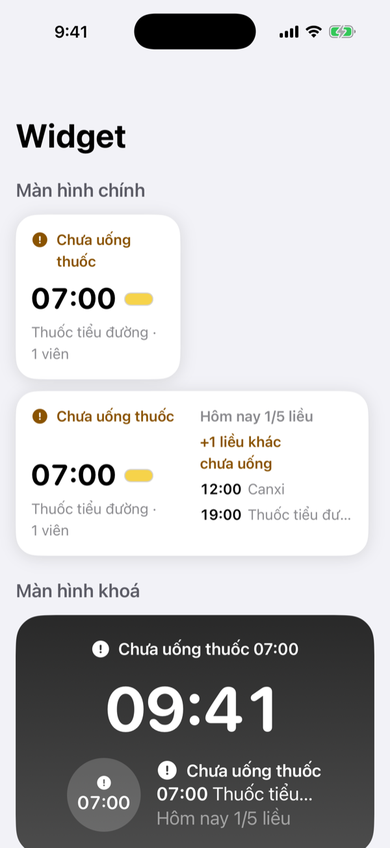
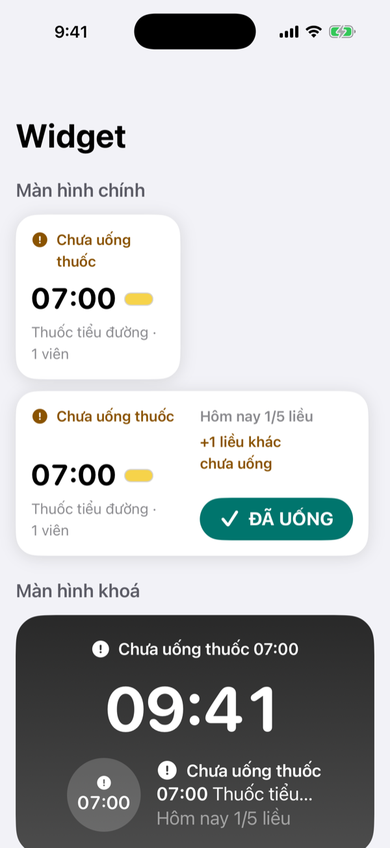
CI: StoreKit tests finish what they leave; file shots wait for the page
- LabStoreTests: purchaseHistory and othersLeftUnfinished leave the
  invoice templates unfinished on purpose; they now finish them at their
  end, as the code that sells them would, so the next test does not wait
  on StoreKit to forget them. On PR 36 one such wait ran past its minute
  once. freshSession's failure now says what StoreKit still reports.
- render-previews.sh: the export screens (PDFKit, Quick Look) are shot
  only once the middle of the screen shows more than plain white: Quick
  Look says nothing when it has drawn, and a title and a caption passed a
  blank Excel page as a still, drawn screen.
- README: the widget's screenshot shows its ĐÃ UỐNG button (rendered on
  62ac116, 390 px).

Claude-Session: https://claude.ai/code/session_017SqZFe7MJiZeRp26ra9wFc

Changed region(s): [[0.4923, 0.5519, 0.9231, 0.6439]]

diff --git a/ios/IdeaLabDemo/IdeaLabDemoTests/LabStoreTests.swift b/ios/IdeaLabDemo/IdeaLabDemoTests/LabStoreTests.swift
@@ -42,8 +42,28 @@ struct LabStoreTests {
             guard await entitlements().isEmpty, await unfinished().isEmpty else { return false }
             return await openSubscriptions().isEmpty
         }
-        try #require(forgotten, "StoreKit still reports the last test's transactions")
+        let left = forgotten ? "" : await leftover()
+        try #require(forgotten, "StoreKit still reports the last test's transactions: \(left)")
         return session
+    }
+
+    /// What StoreKit still reports, for a test that waited in vain.
+    private func leftover() async -> String {
+        let entitled = await entitlements().sorted()
+        let unfinished = await unfinished().sorted()
+        let open = await openSubscriptions().count
+        return "entitlements \(entitled), unfinished \(unfinished), open subscriptions \(open)"
+    }
+
+    /// Finishes what other code of the app sells (`invoice.templates`), as
+    /// that code would: a test leaves it unfinished on purpose, and the next
+    /// one should not wait on StoreKit to forget it.
+    private func finishOthers() async {
+        for await result in StoreKit.Transaction.unfinished {
+            if case let .verified(transaction) = result, !Self.sold.contains(transaction.productID) {
+                await transaction.finish()
+            }
+        }
     }
 
     /// Whether `condition` holds within `timeout`, asked every tenth of a
@@ -210,6 +230,7 @@ struct LabStoreTests {
         try session.refundTransaction(identifier: lifetime.identifier)
         // Read again when the refund comes in.
         #expect(await eventually { store.purchases?.first?.revocationDate != nil }, "\(String(describing: store.purchases))")
+        await finishOthers()
         withExtendedLifetime(session) {}
     }
 
@@ -348,6 +369,7 @@ struct LabStoreTests {
         let leftUnfinished = await unfinished().sorted()
         #expect(finished, "store: \(store.entitled.sorted()); StoreKit: \(reported), unfinished \(leftUnfinished)")
         #expect(await unfinished().contains("invoice.templates"))
+        await finishOthers()
         withExtendedLifetime(session) {}
     }
 }

diff --git a/ios/README.md b/ios/README.md
@@ -910,6 +910,7 @@ xcodebuild test -project ios/IdeaLabDemo/IdeaLabDemo.xcodeproj -scheme IdeaLabDe
     - App demo tạo file `Library/Caches/demo-ready` khi màn cần chụp đã hiện ra (`DemoLaunch.markReady`). Với màn mở sheet, đó là lúc sheet hiện ra; với màn ảnh thật, là lúc thư viện đã được phân loại xong (`DemoScreen.saysWhenReady`). Với hai màn xuất sổ, là lúc file đã ghi và đang hiện; Xem nhanh không báo khi vẽ xong, nên màn Excel chờ thêm 3 giây.
     - Trên iOS 26, quyền cấp bằng `simctl privacy grant photos` được ghi là do hệ thống đặt, và PhotoKit vẫn coi là chưa hỏi. Vì vậy ảnh chụp của màn ảnh thật dừng ở bước xin quyền, còn phần đo và nhóm ảnh được chụp ở màn "Đo thật trên ảnh mẫu" (`cleaner-measured`).
     - Script chờ file này, rồi chụp mỗi giây tới khi hai ảnh liên tiếp giống nhau và không còn là màn khởi động trống.
+    - Với hai màn xuất sổ, nửa giữa màn hình còn phải có nội dung. Quick Look và PDFKit vẽ file sau khi màn đã hiện, và không báo lúc vẽ xong: có lần tiêu đề và tên file đã cho một trang Excel trắng lọt qua.
 
     Vì vậy simulator chậm không làm ra ảnh trắng, hay ảnh màn phía sau khi sheet chưa mở. Sau một phút mà app chưa báo sẵn sàng, hay màn hình chưa đứng yên, script báo lỗi thay vì đăng ảnh sai.
 
@@ -931,7 +932,7 @@ Chụp từ simulator iPhone 17 Pro (iOS 26.5, Xcode 26.6) bằng workflow **iOS
 
 | Nhắc thuốc: phía cha mẹ | Phía người con | Cha mẹ, chữ cực lớn (AX-L) | Widget của cha mẹ |
 | --- | --- | --- | --- |
-| <img src="docs/screenshots/meds-today.light.png" width="200" alt="Nhắc thuốc, phía cha mẹ: liều trễ 2 giờ 41 phút, hình viên thuốc, tên thuốc tiểu đường, nút ĐÃ UỐNG rất to"> | <img src="docs/screenshots/meds-caregiver.light.png" width="200" alt="Phía người con: đã uống 1/3 liều đến giờ, thẻ cảnh báo liều trễ với nút Gọi Mẹ và Nhắc lại, dòng thời gian hôm nay"> | <img src="docs/screenshots/meds-today.large-text.png" width="200" alt="Phía cha mẹ ở cỡ chữ cực lớn: nút ĐÃ UỐNG ghim ở đáy màn hình, dưới tên thuốc và giờ uống mà nó trả lời"> | <img src="docs/screenshots/meds-widgets.light.png" width="200" alt="Widget nhắc thuốc: trên màn hình chính, chưa uống thuốc 07:00 kèm hình viên thuốc, tên thuốc tiểu đường và 1 viên; cỡ vừa thêm hôm nay 1/5 liều và các liều sau đó; trên màn hình khoá, một dòng trên đồng hồ, một hình tròn và một hình chữ nhật"> |
+| <img src="docs/screenshots/meds-today.light.png" width="200" alt="Nhắc thuốc, phía cha mẹ: liều trễ 2 giờ 41 phút, hình viên thuốc, tên thuốc tiểu đường, nút ĐÃ UỐNG rất to"> | <img src="docs/screenshots/meds-caregiver.light.png" width="200" alt="Phía người con: đã uống 1/3 liều đến giờ, thẻ cảnh báo liều trễ với nút Gọi Mẹ và Nhắc lại, dòng thời gian hôm nay"> | <img src="docs/screenshots/meds-today.large-text.png" width="200" alt="Phía cha mẹ ở cỡ chữ cực lớn: nút ĐÃ UỐNG ghim ở đáy màn hình, dưới tên thuốc và giờ uống mà nó trả lời"> | <img src="docs/screenshots/meds-widgets.light.png" width="200" alt="Widget nhắc thuốc: trên màn hình chính, chưa uống thuốc 07:00 kèm hình viên thuốc, tên thuốc tiểu đường và 1 viên; cỡ vừa thêm hôm nay 1/5 liều, một liều khác chưa uống và nút ĐÃ UỐNG; trên màn hình khoá, một dòng trên đồng hồ, một hình tròn và một hình chữ nhật"> |
 
 Toàn bộ 102 ảnh (thêm chế độ tối, chữ lớn, phần cuối của màn dài, màn màu & thành phần) nằm ở nhánh `ios-previews-main` (của main) và `ios-previews` (của PR mới chụp gần nhất, kèm `CHANGES.md`).
 
